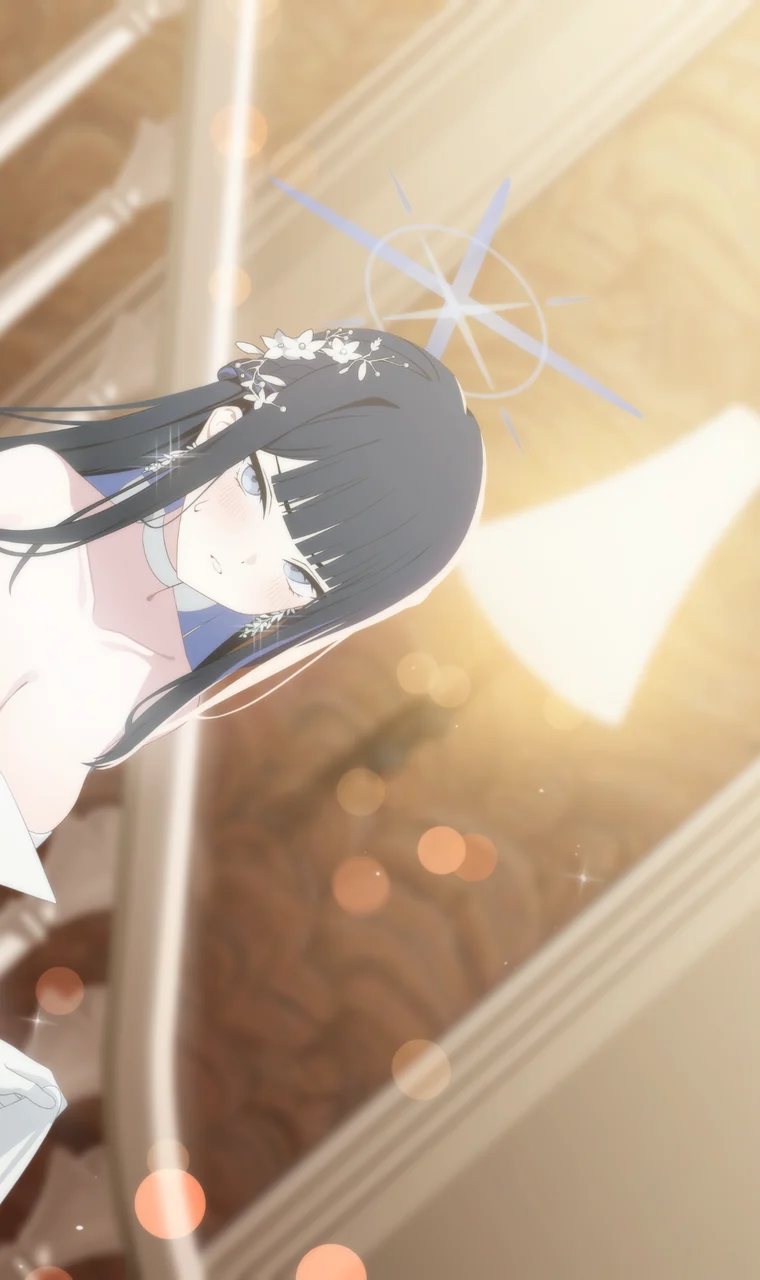
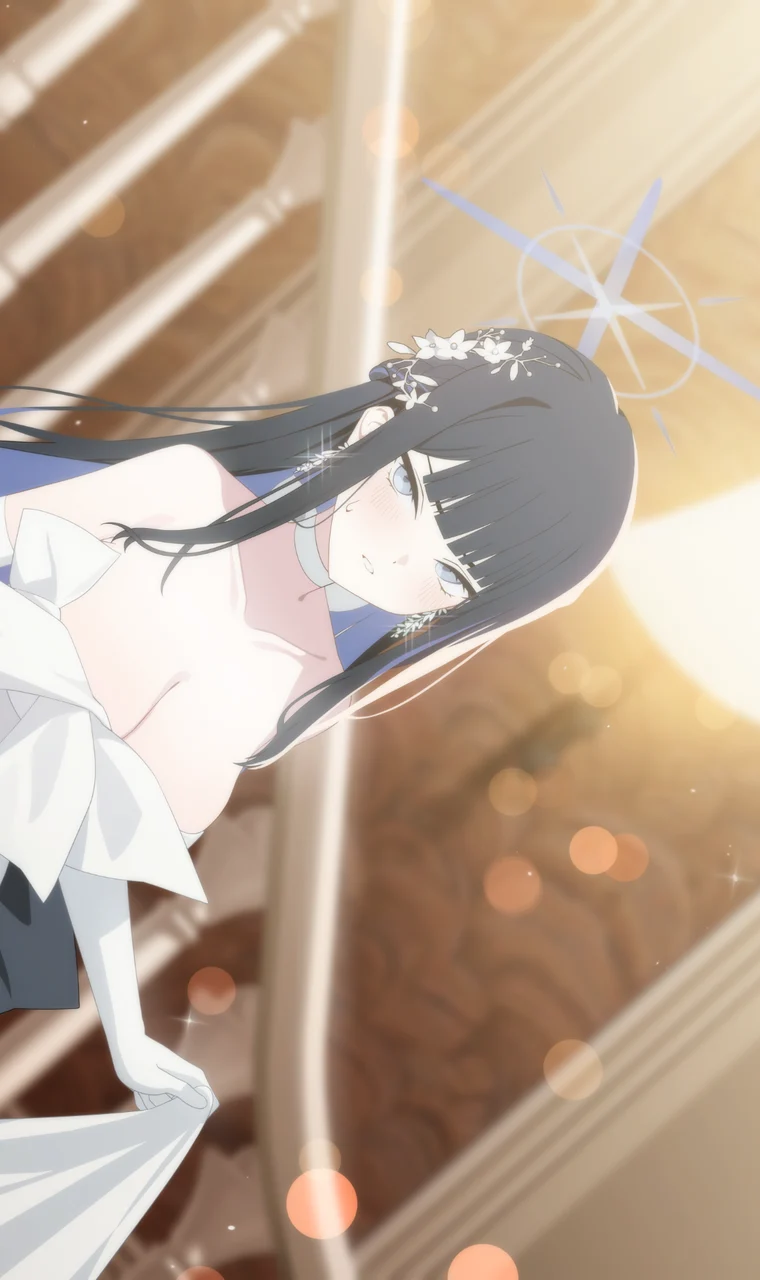
web: re-cut six memorial lobby cards whose face sat at the picture edge; audit-crops.py; extract-lobby.py --only and lobby_shift
20020, 10124, 10129, 16009 had the face cut or touching the edge (the thumbnail match put the window off), 10116 and 16005 sat near it.
Each window is moved sideways by a hand-set fraction of its width (face-overrides.json lobby_shift). 270 lobby and 270 standing crops
were looked over on contact sheets; close-ups such as 10117, 20056, 26012 and 26015 are the picture's own framing (the window is full height),
and 10144 has no high resolution source (its card is the small upscaled one).

Claude-Session: https://claude.ai/code/session_01QdEar5JXLZ7VqvWHXmAZLs

diff --git a/web/scripts/audit-crops.py b/web/scripts/audit-crops.py
@@ -1,0 +1,95 @@
+"""Looks over the card pictures for cut faces and for faces that fill too much of the picture.
+
+    python -I scripts/audit-crops.py [--sheets DIR]
+
+For every picture in public/card-lobby (memorial lobby art, tall) and public/card (standing art, 6:5) the face is found
+with the YuNet detector (the model crop-art.py downloads) and these are reported:
+
+  cut     the face box leaves the picture or comes within 1.5 percent of its edge
+  tight   the face is taller than TIGHT_SHARE of the picture (zoomed in too far for a card)
+  none    no face found (the picture has to be looked at: about 40 percent of anime faces are missed)
+
+`--sheets DIR` also writes contact sheets (24 pictures each, numbered, flagged ones framed in red) to be looked at by eye.
+Detection misses and false hits are expected: the report picks what to look at first, it does not decide.
+"""
+import argparse
+import importlib.util
+import json
+import pathlib
+
+import cv2
+import numpy as np
+from PIL import Image, ImageDraw
+
+ROOT = pathlib.Path(__file__).resolve().parent.parent
+TIGHT_SHARE = {"card-lobby": 0.30, "card": 0.62}
+EDGE = 0.015
+
+
+def load_cropper():
+    spec = importlib.util.spec_from_file_location("crop_art", ROOT / "scripts" / "crop-art.py")
+    mod = importlib.util.module_from_spec(spec)
+    spec.loader.exec_module(mod)
+    return mod
+
+
+def audit(folder, det, mod):
+    rows = []
+    for path in sorted((ROOT / "public" / folder).glob("*.webp")):
+        bgr = cv2.imdecode(np.fromfile(str(path), dtype=np.uint8), cv2.IMREAD_COLOR)
+        h, w = bgr.shape[:2]
+        face = mod.largest_face(det, bgr, min_score=0.3)
+        row = {"id": path.stem, "size": [w, h], "flags": []}
+        if face is None:
+            row["flags"].append("none")
+        else:
+            cx, cy, size = face
+            half = size / 2
+            row["face"] = [round(cx / w, 3), round(cy / h, 3), round(size / h, 3)]
+            if cx - half < EDGE * w or cx + half > (1 - EDGE) * w or cy - half < EDGE * h or cy + half > (1 - EDGE) * h:
+                row["flags"].append("cut")
+            if size / h > TIGHT_SHARE[folder]:
+                row["flags"].append("tight")
+        rows.append(row)
+    return rows
+
+
+def sheets(folder, rows, out):
+    out.mkdir(parents=True, exist_ok=True)
+    cell_w = 190 if folder == "card-lobby" else 240
+    cell_h = 320 if folder == "card-lobby" else 200
+    per_row = 8 if folder == "card-lobby" else 6
+    for n in range(0, len(rows), 24):
+        chunk = rows[n:n + 24]
+        sheet = Image.new("RGB", (per_row * cell_w, ((len(chunk) + per_row - 1) // per_row) * (cell_h + 18)), (30, 30, 30))
+        d = ImageDraw.Draw(sheet)
+        for i, row in enumerate(chunk):
+            x, y = (i % per_row) * cell_w, (i // per_row) * (cell_h + 18)
+            im = Image.open(ROOT / "public" / folder / f"{row['id']}.webp").convert("RGB").resize((cell_w - 4, cell_h), Image.LANCZOS)
+            sheet.paste(im, (x + 2, y + 18))
+            colour = (255, 70, 70) if row["flags"] else (200, 200, 200)
+            d.text((x + 4, y + 3), f"{row['id']} {','.join(row['flags'])}", fill=colour)
+            if row["flags"]:
+                d.rectangle((x + 1, y + 17, x + cell_w - 2, y + 18 + cell_h), outline=(255, 70, 70), width=2)
+        sheet.save(out / f"{folder}-{n // 24 + 1:02d}.png")
+
+
+def main():
+    ap = argparse.ArgumentParser()
+    ap.add_argument("--sheets")
+    a = ap.parse_args()
+    mod = load_cropper()
+    det = mod.detector()
+    report = {}
+    for folder in ("card-lobby", "card"):
+        rows = audit(folder, det, mod)
+        report[folder] = rows
+        counts = {k: sum(k in r["flags"] for r in rows) for k in ("cut", "tight", "none")}
+        print(f"{folder}: {len(rows)} pictures, {counts}")
+        if a.sheets:
+            sheets(folder, rows, pathlib.Path(a.sheets))
+    (pathlib.Path(a.sheets) / "report.json").write_text(json.dumps(report, ensure_ascii=False), encoding="utf-8") if a.sheets else None
+
+
+if __name__ == "__main__":
+    main()

diff --git a/web/scripts/extract-lobby.py b/web/scripts/extract-lobby.py
@@ -122,9 +122,12 @@ def locate_by_thumbnail(big_gray, thumb_path: pathlib.Path):
     return best
 
 
-def portrait_crop(img: Image.Image, face, spot) -> Image.Image:
+def portrait_crop(img: Image.Image, face, spot, shift: float = 0.0):
     """A full-height portrait window. Centre: the detected face, else the matched thumbnail's centre, else the
-    middle. When a face box is known the window is nudged until the whole face sits inside with a margin."""
+    middle. When a face box is known the window is nudged until the whole face sits inside with a margin.
+    `shift` moves the window sideways afterwards, as a fraction of its width (positive = right): the hand-made correction
+    for a picture whose face still sits at an edge (`lobby_shift` in face-overrides.json). Returns the picture and where
+    the window lies, (left, width, picture width)."""
     w, h = img.size
     cw = min(w, round(h * RATIO))
     ch = round(cw / RATIO)
@@ -135,9 +138,10 @@ def portrait_crop(img: Image.Image, face, spot) -> Image.Image:
         margin = cw * 0.08
         left = min(left, round(cx - half - margin))      # keep the face's left edge inside
         left = max(left, round(cx + half + margin - cw))  # and its right edge
+    left = round(left + shift * cw)
     left = max(0, min(left, w - cw))
     top = max(0, min(round(h - ch) // 2, h - ch))
-    return img.crop((left, top, left + cw, top + ch)).resize((OUT_W, OUT_H), Image.LANCZOS)
+    return img.crop((left, top, left + cw, top + ch)).resize((OUT_W, OUT_H), Image.LANCZOS), (left, cw, w)
 
 
 def main() -> int:
@@ -154,6 +158,8 @@ def main() -> int:
     # ids that already have a high resolution cut; --force makes them all again
     prev = ROOT / "public" / "card-lobby.json"
     done_before = set(json.loads(prev.read_text(encoding="utf-8"))) if prev.exists() else set()
+    # --only 10129,20020 cuts just those again (the rest of card-lobby.json is kept)
+    only = {int(x) for x in sys.argv[sys.argv.index("--only") + 1].split(",")} if "--only" in sys.argv else set()
     have, missing = [], []
     how = {"face": 0, "thumbnail": 0, "middle": 0}
     for sid in ids:
@@ -162,7 +168,11 @@ def main() -> int:
         if not f:
             missing.append(name)
             continue
-        if (out / f"{sid}.webp").exists() and "--force" not in sys.argv and (out / f"{sid}.webp").stat().st_size > 5000 and sid in done_before:
+        if only and sid not in only:
+            if sid in done_before:
+                have.append(sid)
+            continue
+        if not only and (out / f"{sid}.webp").exists() and "--force" not in sys.argv and (out / f"{sid}.webp").stat().st_size > 5000 and sid in done_before:
             have.append(sid)
             continue
         ext = f["url"].rsplit(".", 1)[-1].lower()
@@ -191,7 +201,11 @@ def main() -> int:
                     spot = (cx, cy)
         how[("face" if face else "thumbnail" if spot else "middle")] += 1
         img = Image.open(src).convert("RGB")
-        portrait_crop(img, face, spot).save(out / f"{sid}.webp", "WEBP", quality=86)
+        shift = float(crop.OVERRIDES.get("lobby_shift", {}).get(str(sid), 0.0))
+        cropped, (left, cw, w) = portrait_crop(img, face, spot, shift)
+        cropped.save(out / f"{sid}.webp", "WEBP", quality=86)
+        if only:
+            print(f"{sid} {name}: picture {w}x{h}, window left {left} of {w - cw} possible, width {cw}, shift {shift}, centred by {'face' if face else 'thumbnail' if spot else 'middle'}")
         have.append(sid)
     (ROOT / "public" / "card-lobby.json").write_text(json.dumps(have), encoding="utf-8")
     print(f"{len(have)} high resolution lobby cards, {len(missing)} without: {', '.join(missing[:10])}. centred by {how}")
